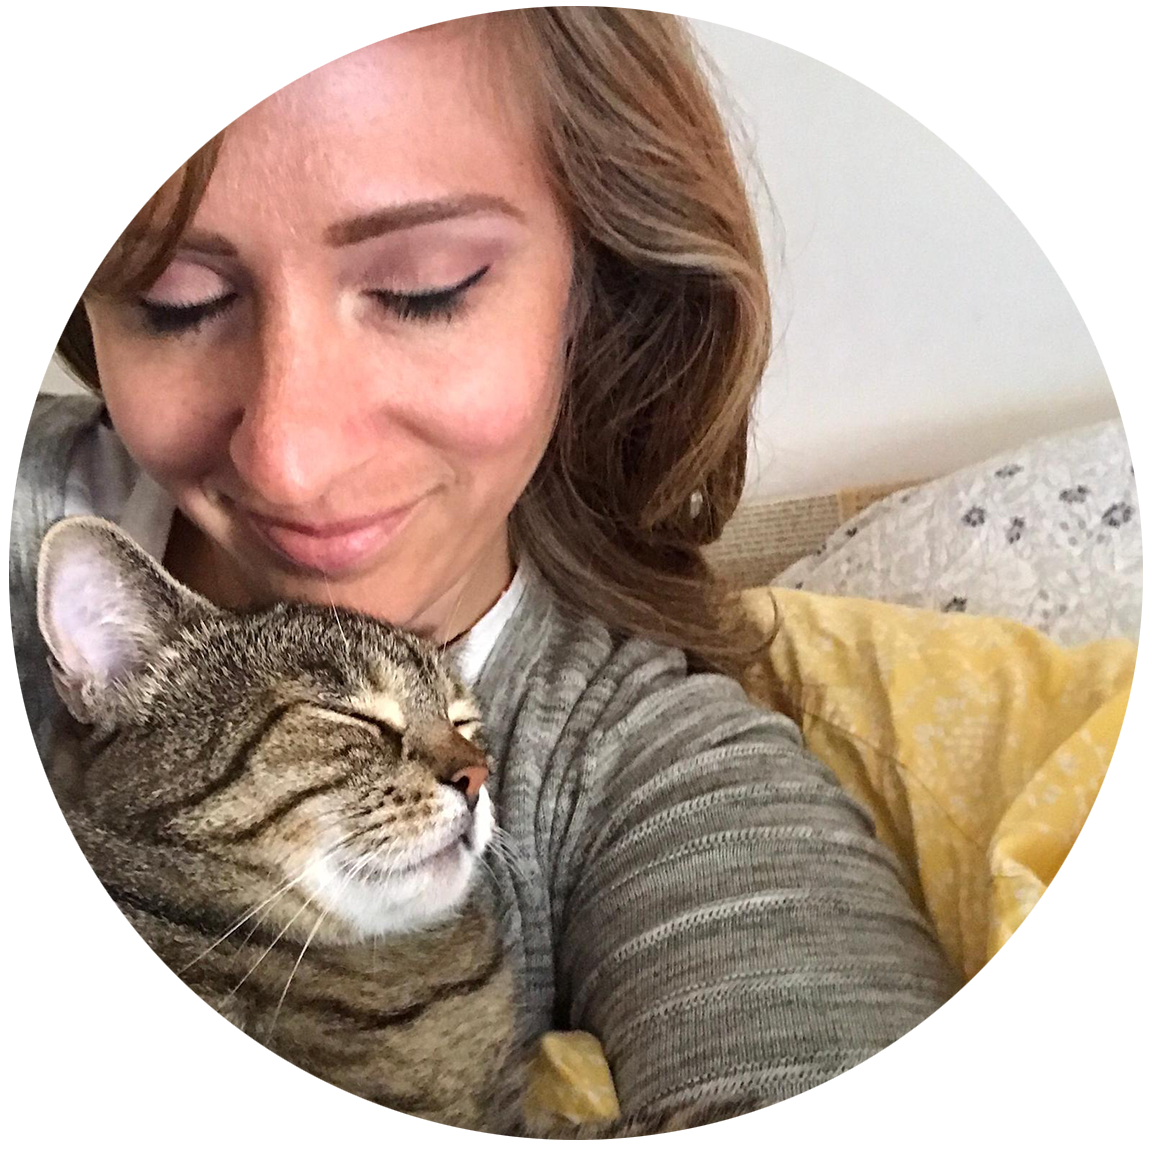
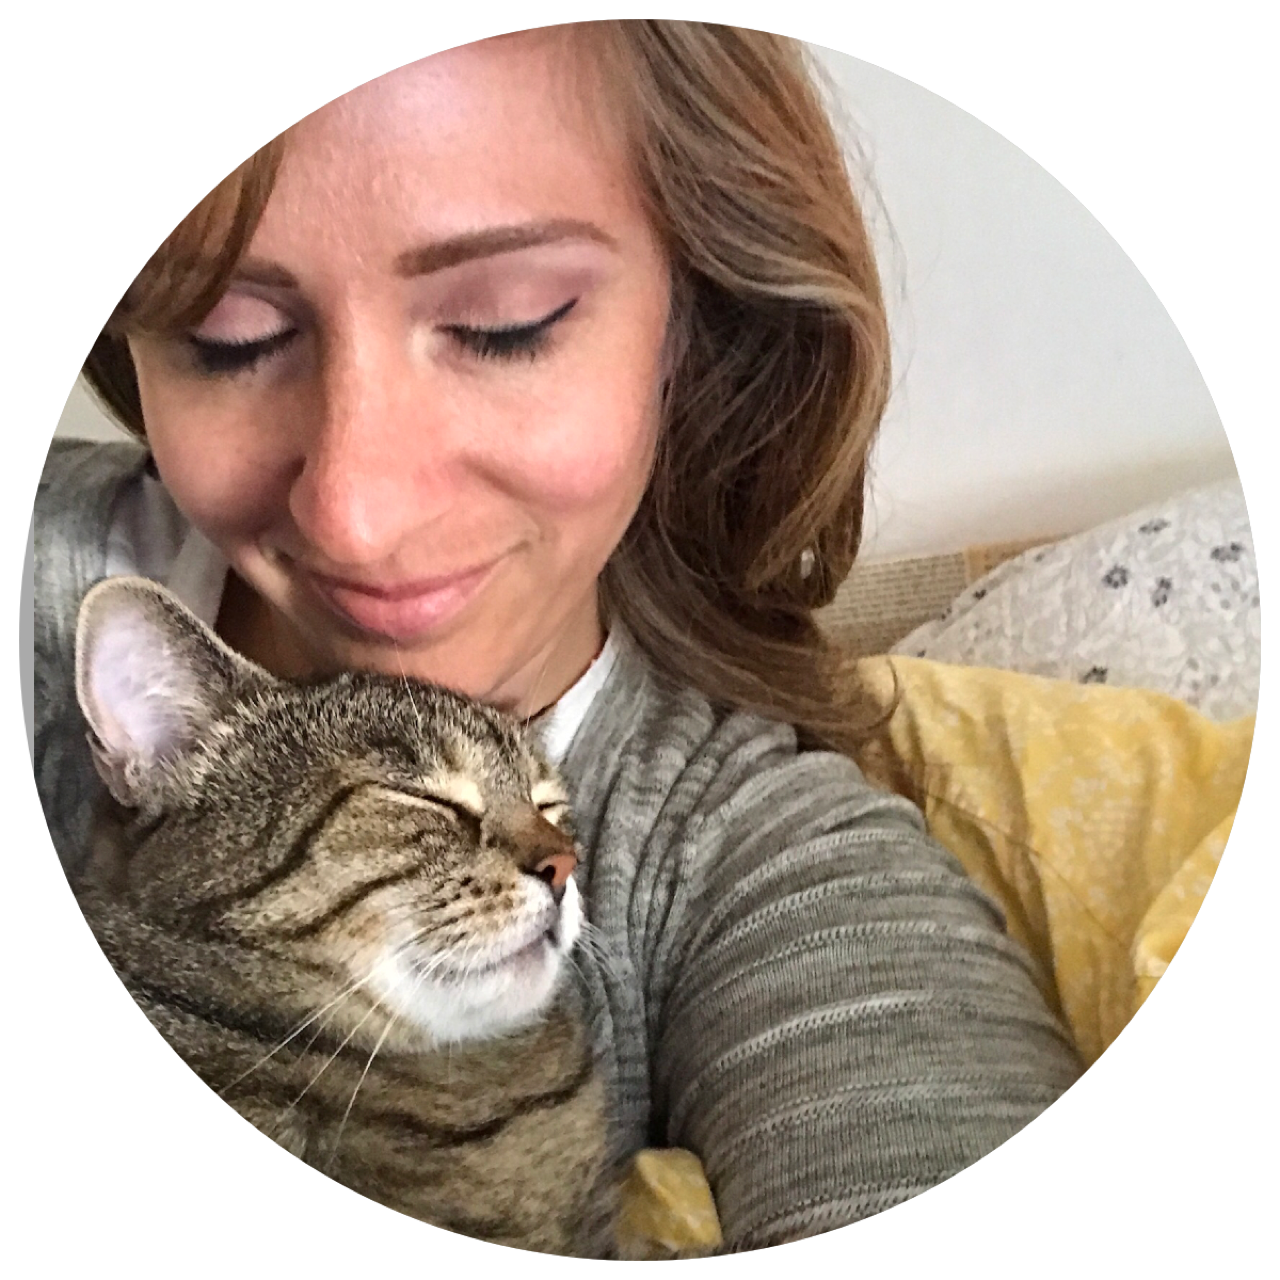
change photos to PNGs

diff --git a/client/src/components/About.js b/client/src/components/About.js
@@ -1,10 +1,10 @@
 import React from 'react';
 import { Jumbotron } from 'react-bootstrap';
-import selfieimg from './../images/about/selfie.jpg';
-import goatimg from './../images/about/goat.jpg';
-import horseimg from './../images/about/horse.png';
-import catimg from './../images/about/cat.png';
-import { IntroPhoto, IntroPhotoResize, IntroParagraphDiv, IntroParagraph } from './../styles/containers';
+import selfieimg from './../images/about/selfie.PNG';
+import goatimg from './../images/about/goat.PNG';
+import horseimg from './../images/about/horse.PNG';
+import catimg from './../images/about/cat.PNG';
+import { IntroParagraphDiv, IntroParagraph } from './../styles/containers';
 
 const About = () => {
 
@@ -12,18 +12,10 @@ const About = () => {
     <div>
       <Jumbotron className="about-jumbotron">
         <center>
-        <IntroPhotoResize>
-          <img src={goatimg} alt={"goat_image"} className="intro-photo"/>
-        </IntroPhotoResize>
-        <IntroPhoto>
-          <img src={horseimg} alt={"horse_image"} className="photo"/>
-        </IntroPhoto>
-        <IntroPhotoResize>
-          <img src={selfieimg} alt={"selfie_image"} className="intro-photo"/>
-        </IntroPhotoResize>
-        <IntroPhoto>
-          <img src={catimg} alt={"cat_image"} className="photo"/>
-        </IntroPhoto>
+          <img src={goatimg} alt={"goat_image"} className="resize-photo"/>
+          <img src={horseimg} alt={"horse_image"} className="resize-photo"/>
+          <img src={selfieimg} alt={"selfie_image"} className="resize-photo"/>
+          <img src={catimg} alt={"cat_image"} className="resize-photo"/>
           <h1>Hi I&#39;m Kayla</h1>
           <IntroParagraphDiv>
             <IntroParagraph>
